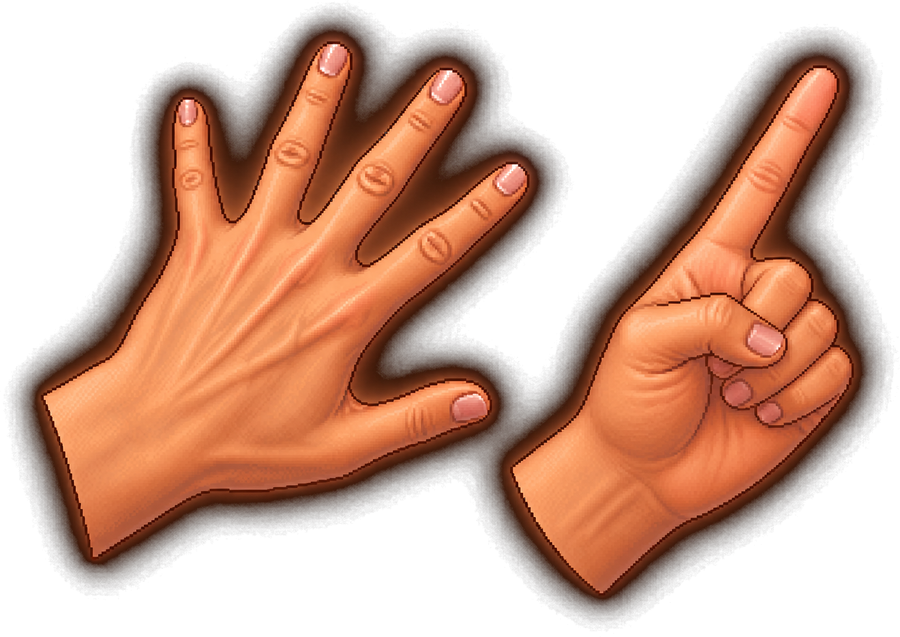
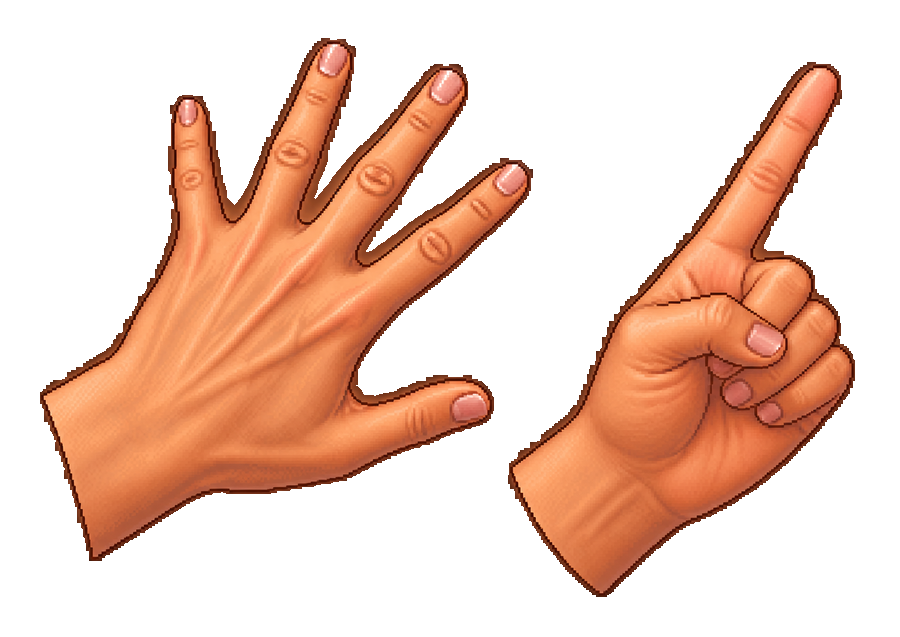
Supprime les halos autour de toutes les mains

Changed region(s): [[0.0, 0.0, 0.9956, 0.9843]]

diff --git a/game.js b/game.js
@@ -14,7 +14,7 @@ if(invitedCode&&session?.code!==invitedCode){session=null;localStorage.removeIte
 const special=c=>['brown','green','blue'].includes(c);const normalizedCharacter=name=>name==='Adéla'?'Adela':name;const characterFile=name=>CHARACTERS.find(c=>c[0]===normalizedCharacter(name))?.[1]||CHARACTERS[0][1];
 const esc=value=>String(value).replace(/[&<>"']/g,c=>({'&':'&amp;','<':'&lt;','>':'&gt;','"':'&quot;',"'":'&#39;'}[c]));
 function dieHTML(d,clickable=false){if(d.hidden)return `<button class="die back" disabled></button>`;const face=special(d.color)&&d.face==='symbol'?icons[d.color]:d.face==='flag'?'<span class="flag">⚑</span>':`<span class="value">${d.face??'?'}</span>`;return `<button class="die ${d.color} ${clickable?'clickable':''}" ${clickable?`data-die="${d.id}"`:''}>${face}</button>`}
-function bidGestureHTML(player,index,compact=false){if(!Number.isInteger(player.bid))return '<b>—</b>';const side=index%2?'from-right':'from-left',character=normalizedCharacter(player.character||player.name),handStyle=FEMININE_HAND_CHARACTERS.has(character)?'feminine-hands':character==='Yannick'?'yannick-hands':'';return `<span class="bid-gesture ${side} ${handStyle} ${compact?'compact':''}"><img src="assets/bids/bid-${player.bid}.png?v=20260819-2" alt="${player.bid} pli${player.bid>1?'s':''}"><em>${player.bid}</em></span>`}
+function bidGestureHTML(player,index,compact=false){if(!Number.isInteger(player.bid))return '<b>—</b>';const side=index%2?'from-right':'from-left',character=normalizedCharacter(player.character||player.name),handStyle=FEMININE_HAND_CHARACTERS.has(character)?'feminine-hands':character==='Yannick'?'yannick-hands':'';return `<span class="bid-gesture ${side} ${handStyle} ${compact?'compact':''}"><img src="assets/bids/bid-${player.bid}.png?v=20260819-3" alt="${player.bid} pli${player.bid>1?'s':''}"><em>${player.bid}</em></span>`}
 function bidsAreRevealed(){return state.phase!=='bids'&&state.players.length>0&&state.players.every(player=>Number.isInteger(player.bid))}
 function shouldShowBidReveal(){return bidsAreRevealed()&&state.phase==='play'&&state.trick===1&&state.played.length===0}
 function bidRevealHTML(mobile=false){return `<div class="${mobile?'mobile-bid-reveal':'bid-reveal-grid'}">${state.players.map((player,index)=>`<div class="revealed-bid"><span>${esc(player.name)}</span>${bidGestureHTML(player,index)}</div>`).join('')}</div>`}

diff --git a/multiplayer.css b/multiplayer.css
@@ -43,7 +43,7 @@
 .revealed-bid{display:grid;grid-template-rows:auto 118px;min-width:120px;place-items:center;color:#31493f;text-align:center;animation:bid-hand-reveal .55s cubic-bezier(.2,.9,.25,1.25) both}
 .revealed-bid:nth-child(2){animation-delay:.06s}.revealed-bid:nth-child(3){animation-delay:.12s}.revealed-bid:nth-child(4){animation-delay:.18s}
 .revealed-bid>span{font-size:10px;font-weight:900}
-.bid-gesture{position:relative;display:inline-grid;width:138px;height:116px;place-items:center;filter:drop-shadow(0 7px 6px #000b)}
+.bid-gesture{position:relative;display:inline-grid;width:138px;height:116px;place-items:center;filter:none}
 .bid-gesture img{display:block;max-width:100%;max-height:100%;object-fit:contain}
 .bid-gesture.from-right img{transform:scaleX(-1)}
 /* Variantes de mains : les gestes validés restent strictement identiques. */
@@ -51,7 +51,7 @@
 .bid-gesture.from-right.feminine-hands img{transform:scaleX(-.88) scaleY(.96)}
 .bid-gesture.yannick-hands img{filter:brightness(.48) saturate(.78) sepia(.32) hue-rotate(338deg) contrast(1.12)}
 .bid-gesture em{position:absolute;right:1px;bottom:1px;display:grid;width:24px;height:24px;place-items:center;border:1px solid #ffe49b;border-radius:50%;background:#772a1d;color:#fff3bd;font:900 14px/1 Georgia,serif;box-shadow:0 2px 0 #32120c}
-.bid-gesture.compact{width:34px;height:25px;margin:-8px 0 -6px;vertical-align:middle;filter:drop-shadow(0 2px 2px #0008)}
+.bid-gesture.compact{width:34px;height:25px;margin:-8px 0 -6px;vertical-align:middle;filter:none}
 .bid-gesture.compact em{right:-3px;bottom:-3px;width:14px;height:14px;font-size:8px}
 .bid-metric{display:inline-flex!important;align-items:center;gap:3px}
 @keyframes bid-hand-reveal{from{opacity:0;transform:translateY(18px) scale(.72)}to{opacity:1;transform:none}}

diff --git a/index.html b/index.html
@@ -150,6 +150,6 @@
     <p class="gallery-intro">Découvrez tous les personnages disponibles avant de choisir votre champion.</p>
     <div id="galleryGrid" class="gallery-grid"></div>
   </dialog>
-  <script src="game.js?v=18"></script>
+  <script src="game.js?v=19"></script>
 </body>
 </html>
